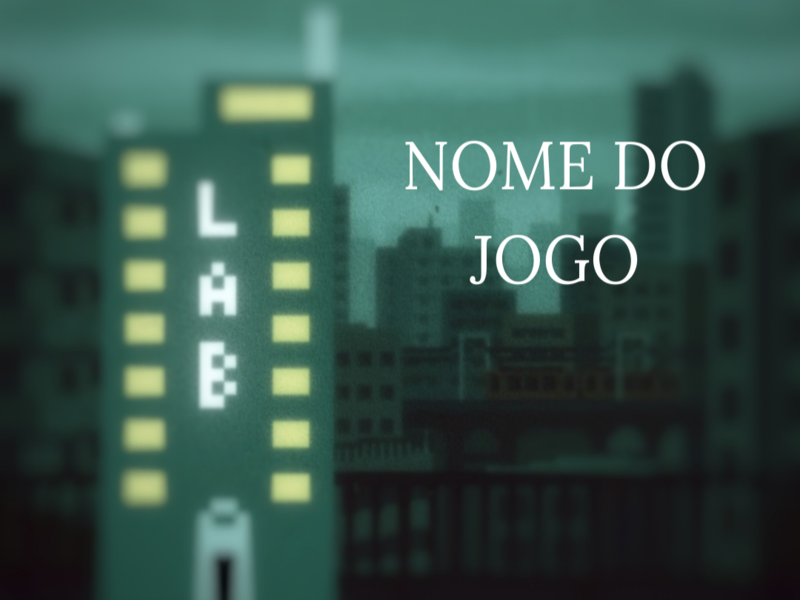
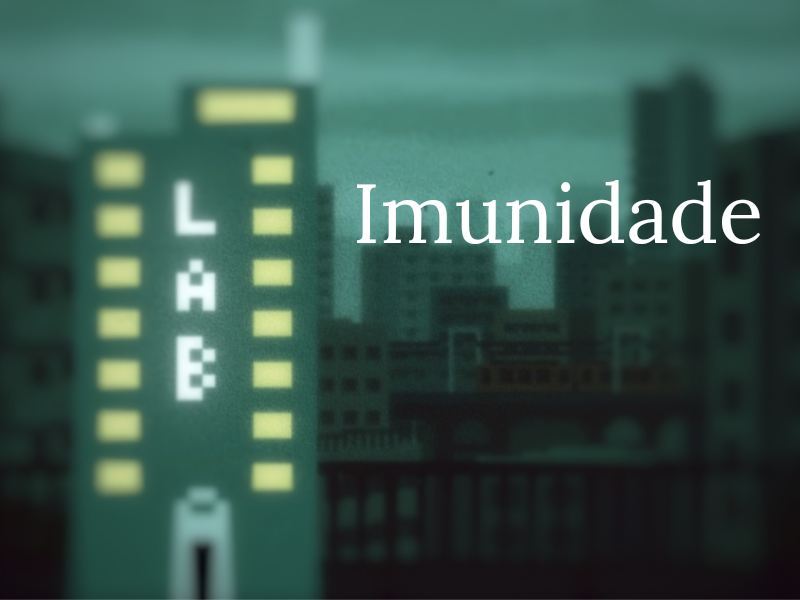
tela inicial e final arrumada

diff --git a/cliente/js/cena0.js b/cliente/js/cena0.js
@@ -18,7 +18,7 @@ cena0.create = function () {
     //nome
     this.add.image(400, 300, "capa");
     //botão
-    button = this.add.image(390, 420, "botão").setInteractive();
+    button = this.add.image(550, 420, "botão").setInteractive();
 
     click = this.sound.add("click");
 
